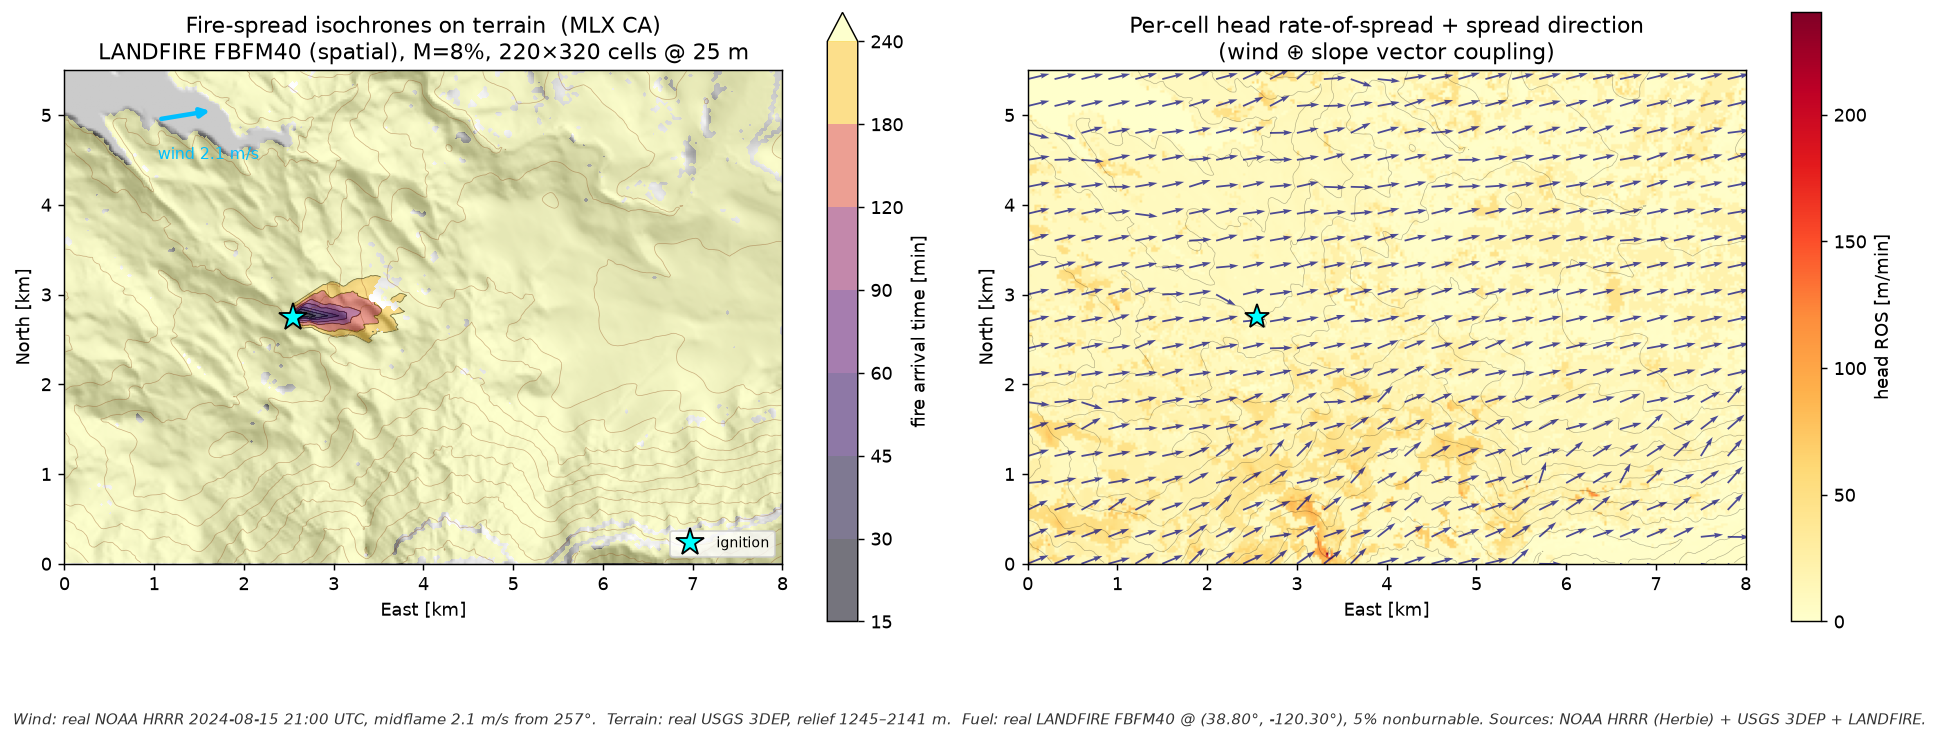
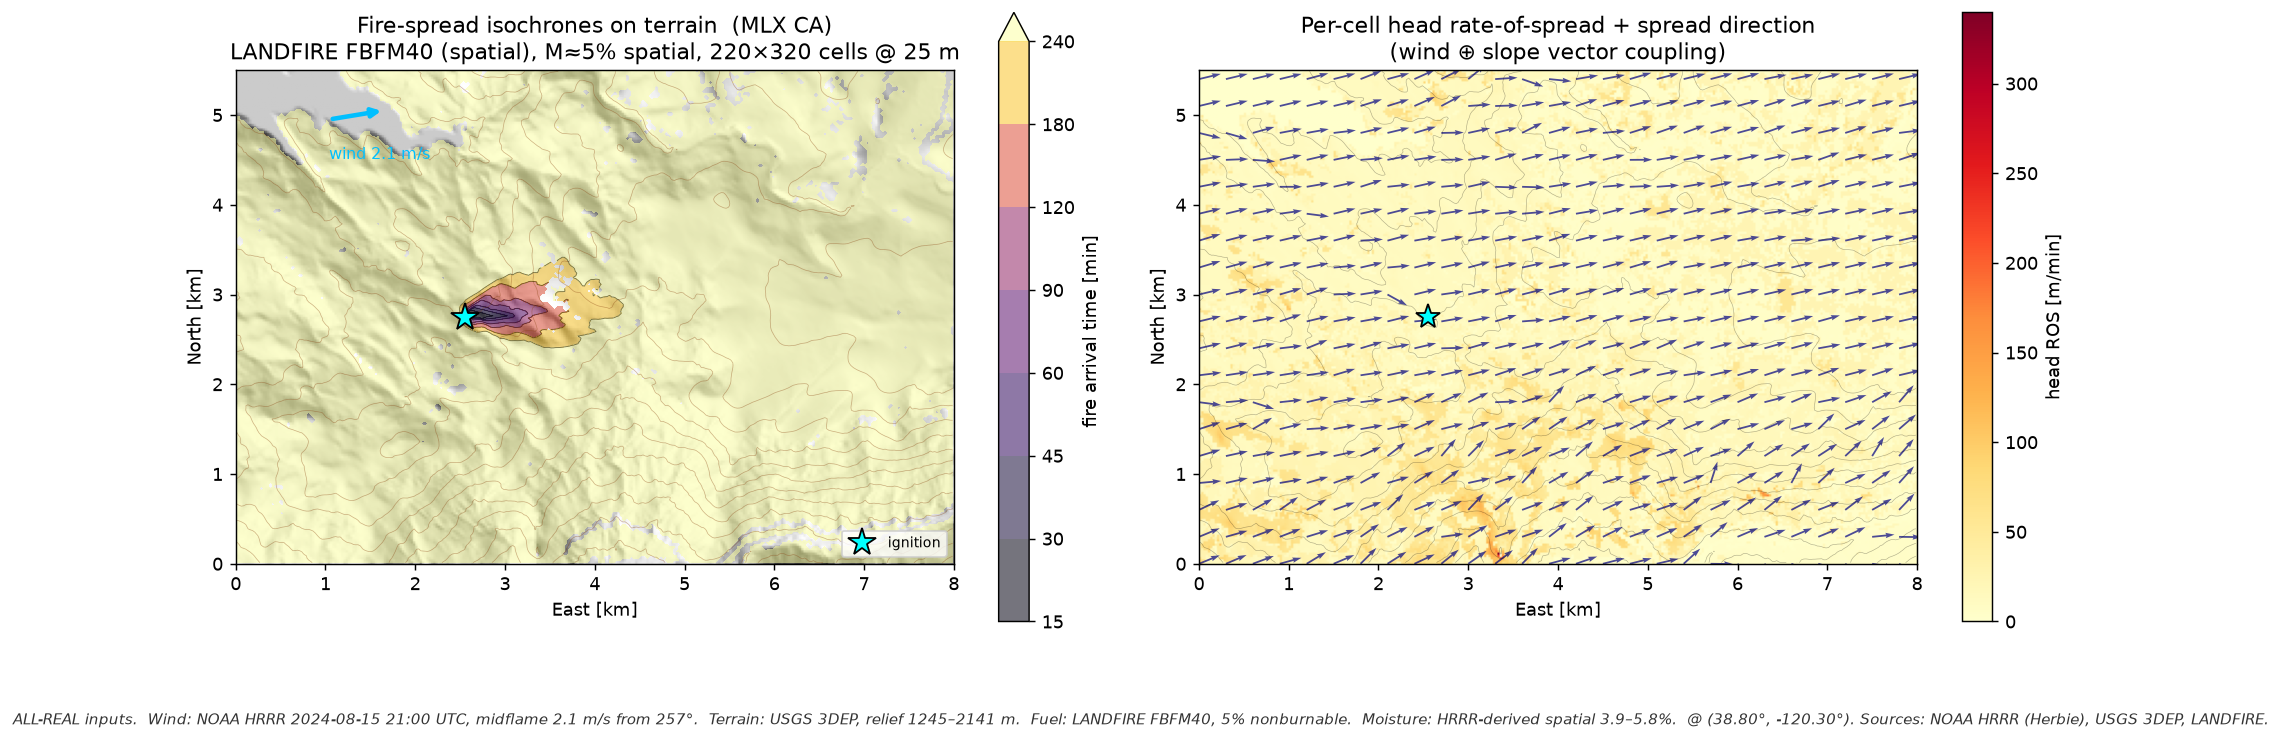
Add spatial dead-fuel moisture from HRRR weather × terrain microclimate
- fuel_moisture.py: HRRR 2 m T/dewpoint → equilibrium moisture content (Simard
  1968), modulated by elevation lapse and aspect heat load (shaded/high ground
  wetter, sunny SW slopes drier). Cells above a fuel's extinction moisture stop
  carrying fire (emergent wet firebreaks).
- rothermel_ca.simulate(moisture_fn=...): M is now a per-cell field via the
  vectorised field coefficients; scalar path unchanged (validations still pass).
- fire_real.py: now all-real (wind + terrain + fuel + moisture).
- fire_moisture.py: demo isolating the pure spatial-moisture effect.

diff --git a/02_fire/fuel_moisture.py b/02_fire/fuel_moisture.py
@@ -1,0 +1,107 @@
+"""
+Spatial dead-fuel moisture — HRRR weather × terrain microclimate.
+
+Fine dead-fuel moisture (the Rothermel `M`) is set by the air it equilibrates
+with. The ambient comes from real HRRR 2 m temperature + dewpoint (via Herbie);
+terrain then modulates it two well-established ways:
+
+  * elevation lapse — air cools ~6.5 K/km with height → higher RH → wetter fuel up high.
+  * aspect heat load — sun-facing (SW) slopes run hotter/drier; shaded (NE) slopes
+    stay cooler/wetter (a McCune & Keon 2002–style heat-load offset).
+
+Equilibrium moisture content via Simard (1968); RH from temperature + dewpoint by
+the Magnus formula. Where the result exceeds a fuel's moisture of extinction, that
+cell simply won't carry fire — an emergent "wet firebreak" on shaded high ground.
+
+    from fuel_moisture import make_moisture_hrrr
+    rc.simulate(..., fuel_fn=..., moisture_fn=make_moisture_hrrr(date, lat, lon))
+"""
+
+import warnings
+warnings.filterwarnings('ignore')
+import numpy as np
+from herbie import Herbie
+
+LAPSE     = 6.5e-3      # environmental temperature lapse [K/m]
+DEW_LAPSE = 2.0e-3      # dewpoint lapse [K/m]
+HEAT_AMP  = 4.0        # max aspect heat-load temperature swing [°C] on steep SW vs NE
+
+
+def _esat(Tc):
+    """Saturation vapour pressure [hPa] (Magnus)."""
+    return 6.112*np.exp(17.67*Tc/(Tc + 243.5))
+
+
+def emc_simard(T_F, RH):
+    """Equilibrium moisture content [%] (Simard 1968); T in °F, RH in %."""
+    RH = np.clip(RH, 0.0, 100.0)
+    emc = np.where(
+        RH < 10.0, 0.03229 + 0.281073*RH - 0.000578*RH*T_F,
+        np.where(RH <= 50.0, 2.22749 + 0.160107*RH - 0.014784*T_F,
+                 21.0606 + 0.005565*RH**2 - 0.00035*RH*T_F - 0.483199*RH))
+    return np.clip(emc, 1.0, None)
+
+
+def moisture_field(z, dzdx, dzdy, DX, T_base_K, Td_base_K, M_floor=0.02, M_cap=0.35):
+    """Spatial fine dead-fuel moisture [fraction] from ambient T/Td + terrain."""
+    z = np.asarray(z, 'f8')
+    z_ref = float(z.mean())
+    Tc  = (T_base_K - 273.15) - LAPSE*(z - z_ref)         # air temp, elevation-lapsed [°C]
+    Tdc = (Td_base_K - 273.15) - DEW_LAPSE*(z - z_ref)    # dewpoint, lapsed [°C]
+
+    slope  = np.arctan(np.hypot(dzdx, dzdy))
+    aspect = np.degrees(np.arctan2(-dzdx, -dzdy)) % 360.0  # downslope azimuth (compass)
+    heat   = HEAT_AMP*np.sin(slope)*np.cos(np.radians(aspect - 225.0))   # +SW … −NE [°C]
+    Tc_fuel = Tc + heat                                    # fuel-surface microclimate temp
+
+    Tdc = np.minimum(Tdc, Tc_fuel)                         # dewpoint ≤ temperature
+    RH = np.clip(100.0*_esat(Tdc)/_esat(Tc_fuel), 1.0, 100.0)
+    emc = emc_simard(Tc_fuel*9.0/5.0 + 32.0, RH)
+    return np.clip(emc/100.0, M_floor, M_cap).astype('f4')
+
+
+def fetch_hrrr_trh(date, lat0, lon0, halfdeg=0.4, fxx=0, save_dir='/tmp/herbie', verbose=True):
+    """Domain-mean HRRR 2 m temperature + dewpoint [K]."""
+    H = Herbie(date, model='hrrr', product='sfc', fxx=fxx, save_dir=save_dir, verbose=False)
+    if H.grib is None:
+        raise RuntimeError(f"No HRRR data for {date}")
+    ds = H.xarray(":(TMP|DPT):2 m above ground:", verbose=False)
+    lat = ds.latitude.values; lon = ds.longitude.values; lonc = lon0 % 360
+    box = (np.abs(lat - lat0) <= halfdeg) & (np.abs(((lon - lonc + 180) % 360) - 180) <= halfdeg)
+    T_K = float(ds.t2m.values[box].mean())
+    Td_K = float(ds.d2m.values[box].mean())
+    if verbose:
+        print(f"HRRR 2 m @ ({lat0:.2f},{lon0:.2f}): T {T_K-273.15:.1f}°C, "
+              f"Td {Td_K-273.15:.1f}°C, RH≈{100*_esat(Td_K-273.15)/_esat(T_K-273.15):.0f}%")
+    return T_K, Td_K
+
+
+def make_moisture_hrrr(date, lat0, lon0, verbose=True):
+    """Closure for rc.simulate(moisture_fn=...)."""
+    T_K, Td_K = fetch_hrrr_trh(date, lat0, lon0, verbose=verbose)
+
+    def _fn(z, dzdx, dzdy, DX):
+        return moisture_field(z, dzdx, dzdy, DX, T_K, Td_K)
+    return _fn
+
+
+# ── self-test ──────────────────────────────────────────────────────────────────
+if __name__ == '__main__':
+    H, W, DX = 120, 160, 30.0
+    T_K, Td_K = 296.4, 275.1                               # the Eldorado fire-weather afternoon
+    # flat → uniform
+    zf = np.zeros((H, W)); g = np.zeros((H, W))
+    Mf = moisture_field(zf, g, g, DX, T_K, Td_K)
+    print(f"flat: M {Mf.min()*100:.2f}–{Mf.max()*100:.2f}% (uniform) → "
+          f"{'PASS' if np.ptp(Mf) < 1e-4 else 'FAIL'}")
+    # a ridge: compare a S-facing vs N-facing slope cell and high vs low elevation
+    y, x = np.mgrid[0:H, 0:W]
+    z = 500.0*np.exp(-(((y-H/2)/(0.18*H))**2))            # E–W ridge → N & S faces
+    dzdy, dzdx = np.gradient(z, DX)
+    M = moisture_field(z, dzdx, dzdy, DX, T_K, Td_K)
+    # origin lower → high-row side faces North (shaded); low-row side faces South (sunny)
+    n_face = M[H//2+18, W//2]*100      # N-facing slope, shaded
+    s_face = M[H//2-18, W//2]*100      # S-facing slope, sunny
+    print(f"aspect: N-face {n_face:.2f}% vs S-face {s_face:.2f}%  → "
+          f"{'PASS' if n_face > s_face else 'FAIL'}: shaded fuel is moister")
+    print(f"elevation: crest {M[H//2, W//2]*100:.2f}% vs base {M[5, W//2]*100:.2f}%")

diff --git a/02_fire/fire_moisture.py b/02_fire/fire_moisture.py
@@ -1,0 +1,87 @@
+"""
+Spatial dead-fuel moisture — real HRRR weather × terrain microclimate.
+
+Shows the moisture field (shaded high ground wetter, sunny SW slopes drier) and the
+fire it produces, on the same real Sierra scenario (3DEP terrain + LANDFIRE fuel +
+HRRR wind). Reports the *pure spatial* effect by also running uniform moisture set
+to the field mean, so the comparison isn't just a global dry/wet offset.
+
+Run: ~/ds/bin/python 02_fire/fire_moisture.py
+Output: output/fire_moisture.png
+"""
+
+import os
+import numpy as np
+import rothermel_ca as rc
+from hrrr_wind import fetch_hrrr_wind
+from real_terrain import make_terrain_3dep
+from real_fuel import make_fuel_fbfm40
+from fuel_moisture import make_moisture_hrrr
+
+
+def main(date='2024-08-15 21:00', lat0=38.8, lon0=-120.3):
+    w = fetch_hrrr_wind(date, lat0=lat0, lon0=lon0, verbose=True)
+    terr = make_terrain_3dep(lat0, lon0, verbose=False)
+    fuel = make_fuel_fbfm40(lat0, lon0, verbose=False)
+    mois = make_moisture_hrrr(date, lat0, lon0, verbose=True)
+    common = dict(H=220, W=320, DX=25.0, wind_ms=w['midflame_ms'], wind_from_deg=w['from_deg'],
+                  ignition=(0.30, 0.50), terrain_fn=terr, fuel_fn=fuel, use_mlx=True)
+
+    r_spatial = rc.simulate(moisture_fn=mois, **common)
+    mf = r_spatial['M_field']
+    r_uniform = rc.simulate(M=float(mf.mean()), **common)   # same MEAN → isolates spatial effect
+
+    m = np.isfinite(r_uniform['T']) & np.isfinite(r_spatial['T'])
+    dmed = np.nanmedian(np.abs(r_uniform['T'][m] - r_spatial['T'][m]))/60
+    print(f"\nspatial fine dead-fuel moisture {mf.min()*100:.1f}–{mf.max()*100:.1f}% "
+          f"(mean {mf.mean()*100:.1f}%)")
+    print(f"pure spatial effect (vs uniform at same {mf.mean()*100:.1f}% mean): "
+          f"median |Δ arrival| {dmed:.0f} min")
+    make_figure(r_spatial, w, lat0, lon0, dmed)
+
+
+def make_figure(r, w, lat0, lon0, dmed, out='output/fire_moisture.png'):
+    os.makedirs('output', exist_ok=True)
+    import matplotlib; matplotlib.use('Agg')
+    import matplotlib.pyplot as plt
+
+    DX, H, W = r['DX'], r['H'], r['W']
+    ext = [0, W*DX/1000, 0, H*DX/1000]
+    z = r['z']; gi, gj = r['ignition']; mf = r['M_field']*100
+    ls = matplotlib.colors.LightSource(azdeg=315, altdeg=45)
+    hill = ls.hillshade(z, vert_exag=2.0, dx=DX, dy=DX)
+    fig, ax = plt.subplots(1, 2, figsize=(15, 6.4), facecolor='white')
+
+    # Panel 1 — moisture field (drier = warmer colour)
+    ax[0].imshow(hill, cmap='gray', origin='lower', extent=ext, alpha=0.5)
+    im = ax[0].imshow(mf, cmap='YlGnBu', origin='lower', extent=ext, alpha=0.75)
+    ax[0].contour(z, levels=12, colors='k', linewidths=0.3, extent=ext, origin='lower', alpha=0.3)
+    fig.colorbar(im, ax=ax[0], shrink=0.8).set_label('fine dead-fuel moisture [%]')
+    ax[0].set_title("Spatial dead-fuel moisture\n(shaded/high ground wetter, sunny SW slopes drier)")
+    ax[0].set(xlabel='East [km]', ylabel='North [km]')
+
+    # Panel 2 — fire on spatial moisture
+    levels = np.array([15, 30, 45, 60, 90, 120, 180, 240], 'f4')
+    ax[1].imshow(hill, cmap='gray', origin='lower', extent=ext, alpha=0.9)
+    nb = ~r['burnable'] if r.get('burnable') is not None else np.zeros((H, W), bool)
+    ax[1].imshow(np.ma.masked_where(~nb, nb), cmap=matplotlib.colors.ListedColormap(['#3a7bd5']),
+                 origin='lower', alpha=0.35, extent=ext)
+    cs = ax[1].contourf(r['T']/60, levels=levels, cmap='inferno', alpha=0.6,
+                        origin='lower', extent=ext, extend='max')
+    ax[1].contour(r['T']/60, levels=levels, colors='k', linewidths=0.4, origin='lower',
+                  extent=ext, alpha=0.4)
+    ax[1].plot(gj*DX/1000, gi*DX/1000, '*', color='cyan', ms=14, mec='k')
+    fig.colorbar(cs, ax=ax[1], shrink=0.8, ticks=levels).set_label('arrival time [min]')
+    ax[1].set_title(f"Fire on spatial moisture\n(pure spatial effect: median |Δt| {dmed:.0f} min)")
+    ax[1].set(xlabel='East [km]', ylabel='North [km]')
+
+    fig.suptitle(f"HRRR-driven spatial fuel moisture — Eldorado NF ({lat0}°, {lon0}°): "
+                 f"T {w['date']} 2 m weather × 3DEP terrain. Sources: NOAA HRRR, USGS 3DEP, LANDFIRE.",
+                 fontsize=11, y=1.0)
+    plt.tight_layout(rect=(0, 0, 1, 0.97))
+    plt.savefig(out, dpi=125, bbox_inches='tight', facecolor='white')
+    print(f"Saved {out}")
+
+
+if __name__ == '__main__':
+    main()

diff --git a/02_fire/rothermel_ca.py b/02_fire/rothermel_ca.py
@@ -210,7 +210,7 @@ def simulate(H=220, W=320, DX=25.0,
              fuel=FUEL_MODELS[2], M=0.08,
              wind_ms=2.5, wind_from_deg=270.0,     # MIDFLAME wind FROM the west → blows east
              ignition=(0.30, 0.55), use_mlx=True, max_sweeps=None, verbose=False,
-             terrain_fn=None, fuel_fn=None, wind_fn=None):
+             terrain_fn=None, fuel_fn=None, wind_fn=None, moisture_fn=None):
     """Run the fire-spread CA. Returns a dict of fields (NumPy) for plotting.
     `fuel_fn(H,W,DX)` → dict(w0,delta,sigma,h,Mx, burnable[, code]) makes fuel
     spatial (e.g. a real LANDFIRE map); else the uniform `fuel` model is used.
@@ -221,11 +221,23 @@ def simulate(H=220, W=320, DX=25.0,
 
     # ── terrain & static fields ──
     z, dzdx, dzdy = (terrain_fn or make_terrain)(H, W, DX)
+
+    # moisture: scalar, or a spatial field (HRRR weather × terrain microclimate)
+    M_field = None
+    M_used = M
+    if moisture_fn is not None:
+        M_used = np.asarray(moisture_fn(z, dzdx, dzdy, DX), 'f8')
+        M_field = M_used.astype('f4')
+
     burnable = None;  fuel_code = None
     if fuel_fn is not None:
         ff = fuel_fn(H, W, DX)
-        co = rothermel_coeffs_field(ff['w0'], ff['delta'], ff['sigma'], ff['h'], ff['Mx'], M)
+        co = rothermel_coeffs_field(ff['w0'], ff['delta'], ff['sigma'], ff['h'], ff['Mx'], M_used)
         burnable = np.asarray(ff['burnable']);  fuel_code = ff.get('code')
+    elif moisture_fn is not None:                         # spatial moisture, uniform fuel
+        g = lambda v: np.full((H, W), v, 'f8')
+        co = rothermel_coeffs_field(g(fuel['w0']), g(fuel['delta']), g(fuel['sigma']),
+                                    g(fuel['h']), g(fuel['Mx']), M_used)
     else:
         co = rothermel_coeffs(fuel, M)
 
@@ -346,7 +358,7 @@ def simulate(H=220, W=320, DX=25.0,
     return dict(T=T_np, z=z, slope_tan=slope_tan, head_ros_ms=head_ros_ms,
                 theta_max=theta_max, ecc=ecc, DX=DX, H=H, W=W,
                 ignition=(gi, gj), wind_ms=wind_ms_disp, wind_from_deg=wind_deg_disp,
-                wind_speed_field=wind_speed_field,
+                wind_speed_field=wind_speed_field, M_field=M_field,
                 fuel=fuel, M=M, wall=wall, backend='MLX' if be.mlx else 'NumPy',
                 sweeps=done, burnable=burnable, fuel_code=fuel_code)
 
@@ -489,6 +501,8 @@ def make_figures(r, out_prefix='output/fire_ca', note=None):
     else:
         fid = [k for k, v in FUEL_MODELS.items() if v is r['fuel']][0]
         fuel_label = f"FM{fid} {r['fuel']['name']}"
+    m_label = (f"M≈{np.nanmean(r['M_field'])*100:.0f}% spatial"
+               if r.get('M_field') is not None else f"M={r['M']*100:.0f}%")
 
     fig, ax = plt.subplots(1, 2, figsize=(15, 6.2), facecolor='white')
 
@@ -517,7 +531,7 @@ def make_figures(r, out_prefix='output/fire_ca', note=None):
     cb.set_label('fire arrival time [min]')
     ax[0].set(xlabel='East [km]', ylabel='North [km]',
               title=f"Fire-spread isochrones on terrain  ({r['backend']} CA)\n"
-                    f"{fuel_label}, M={r['M']*100:.0f}%, "
+                    f"{fuel_label}, {m_label}, "
                     f"{H}×{W} cells @ {DX:.0f} m")
     ax[0].legend(loc='lower right', fontsize=8)
 

diff --git a/02_fire/fire_real.py b/02_fire/fire_real.py
@@ -16,34 +16,38 @@ import numpy as np
 import rothermel_ca as rc
 from hrrr_wind import fetch_hrrr_wind
 from real_terrain import make_terrain_3dep
-from real_fuel import make_fuel_fbfm40, fetch_fbfm40, fuel_summary
+from real_fuel import make_fuel_fbfm40, fuel_summary
+from fuel_moisture import make_moisture_hrrr
 
 
 def main(date='2024-08-15 21:00', lat0=38.8, lon0=-120.3):
     w = fetch_hrrr_wind(date, lat0=lat0, lon0=lon0, verbose=True)
     terr = make_terrain_3dep(lat0, lon0, verbose=True)
     fuel = make_fuel_fbfm40(lat0, lon0, verbose=True)
+    mois = make_moisture_hrrr(date, lat0, lon0, verbose=True)
 
-    r = rc.simulate(H=220, W=320, DX=25.0, M=0.08,
+    r = rc.simulate(H=220, W=320, DX=25.0,
                     wind_ms=w['midflame_ms'], wind_from_deg=w['from_deg'],
                     ignition=(0.32, 0.50), terrain_fn=terr, fuel_fn=fuel,
-                    use_mlx=True, verbose=False)
+                    moisture_fn=mois, use_mlx=True, verbose=False)
 
     burned = np.isfinite(r['T']).mean()*100
     relief = f"{r['z'].min():.0f}–{r['z'].max():.0f} m"
     nb = (~r['burnable']).mean()*100
+    mf = r['M_field']
     print(f"\nCA ({r['backend']}): {r['H']}×{r['W']} @ {r['DX']:.0f} m, relief {relief}, "
           f"{r['sweeps']} sweeps in {r['wall']:.2f}s, burned {burned:.0f}% of burnable area")
-    print(f"head ROS range: {r['head_ros_ms'].min()*60:.1f}–{r['head_ros_ms'].max()*60:.1f} m/min "
-          f"(varies with real fuel + slope); nonburnable {nb:.0f}% (firebreaks)")
+    print(f"head ROS range: {r['head_ros_ms'].min()*60:.1f}–{r['head_ros_ms'].max()*60:.1f} m/min; "
+          f"moisture {mf.min()*100:.1f}–{mf.max()*100:.1f}%; nonburnable {nb:.0f}% (firebreaks)")
     print("fuel composition:")
     for code, name, pct in fuel_summary(r['fuel_code'])[:6]:
         print(f"   {name:>4} (code {code}): {pct:.0f}%")
 
-    note = (f"Wind: real NOAA HRRR {w['date']} UTC, midflame {w['midflame_ms']:.1f} m/s from "
-            f"{w['from_deg']:.0f}°.  Terrain: real USGS 3DEP, relief {relief}.  "
-            f"Fuel: real LANDFIRE FBFM40 @ ({lat0:.2f}°, {lon0:.2f}°), {nb:.0f}% nonburnable. "
-            f"Sources: NOAA HRRR (Herbie) + USGS 3DEP + LANDFIRE.")
+    note = (f"ALL-REAL inputs.  Wind: NOAA HRRR {w['date']} UTC, midflame {w['midflame_ms']:.1f} m/s "
+            f"from {w['from_deg']:.0f}°.  Terrain: USGS 3DEP, relief {relief}.  "
+            f"Fuel: LANDFIRE FBFM40, {nb:.0f}% nonburnable.  "
+            f"Moisture: HRRR-derived spatial {mf.min()*100:.1f}–{mf.max()*100:.1f}%.  "
+            f"@ ({lat0:.2f}°, {lon0:.2f}°). Sources: NOAA HRRR (Herbie), USGS 3DEP, LANDFIRE.")
     rc.make_figures(r, out_prefix='output/fire_ca_real', note=note)
     return r, w
 

diff --git a/README.md b/README.md
@@ -26,9 +26,11 @@ with a NumPy fallback everywhere.
 | `02_fire/real_terrain.py` | Real **USGS 3DEP** bare-earth DEM via the ImageServer REST API (pyproj + Pillow, no GDAL). |
 | `02_fire/hrrr_wind.py` | Real **NOAA HRRR** 10 m wind via [Herbie](https://herbie.readthedocs.io), converted to a Rothermel mid-flame wind. |
 | `02_fire/real_fuel.py` | Real **LANDFIRE FBFM40** fuel models (all 40 Scott & Burgan 2005 models + nonburnable firebreaks). |
+| `02_fire/fuel_moisture.py` | Spatial **dead-fuel moisture** from real HRRR 2 m weather × terrain microclimate (elevation lapse + aspect heat load; EMC via Simard 1968). |
 | `02_fire/terrain_wind.py` | **Mass-conserving terrain wind downscaling** (the WindNinja core) — solves ∇·(d∇φ)=∇·(dV₀) by conjugate gradient so the flow follows the real DEM. |
-| `02_fire/fire_real.py` | Fire CA on real wind **+** real terrain **+** real fuel for a real place/time. |
+| `02_fire/fire_real.py` | Fire CA on **all-real** inputs — real wind, terrain, fuel, and moisture for a real place/time. |
 | `02_fire/fire_terrain_wind.py` | Uniform vs. terrain-downscaled wind, side by side. |
+| `02_fire/fire_moisture.py` | Spatial vs. uniform fuel moisture (isolates the terrain-microclimate effect). |
 | `02_fire/progressive_res.py` | Resolution study: the same real-data fire at 90→10 m, with the MLX-vs-NumPy crossover. |
 | `03_swarm/swarm_core.py` | 3-D boids physics (separation · alignment · fire-tracking · arc-index spread · tangential patrol · altitude PD). NumPy reference **and** MLX port, numerically validated. |
 | `03_swarm/boids_swarm_3d.py` | 150-drone 3-D swarm: deploy from a base, self-organise to blanket a fire perimeter (matplotlib Axes3D). |
@@ -86,12 +88,13 @@ and cached locally; nothing proprietary is redistributed here.
 ## Status
 
 Real-data layers wired in: **wind** (HRRR + mass-conserving terrain downscaling), **terrain** (3DEP),
-**fuel** (LANDFIRE). Honestly remaining synthetic / simplified:
+**fuel** (LANDFIRE FBFM40), **fuel moisture** (HRRR 2 m weather × terrain microclimate). Honestly
+remaining simplified:
 
-- **Fuel moisture** is uniform (a spatial field from NFMD or HRRR temperature/RH is the next step).
 - **Wind is a single time snapshot** — time-varying wind needs a time-stepping front model, not the
   current static min-arrival-time relaxation.
-- The fuel single-class reduction assumes fire-season herbaceous curing (documented in `real_fuel.py`).
+- The fuel single-class reduction assumes fire-season herbaceous curing (documented in `real_fuel.py`);
+  the moisture aspect heat-load is a parameterised offset (documented in `fuel_moisture.py`).
 
 ## License
 
